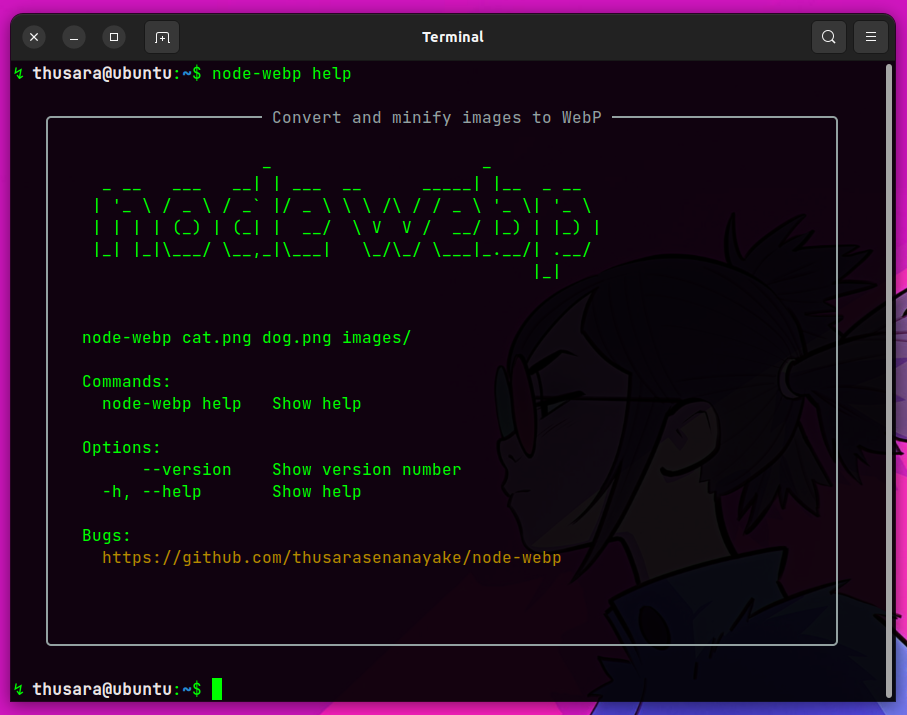
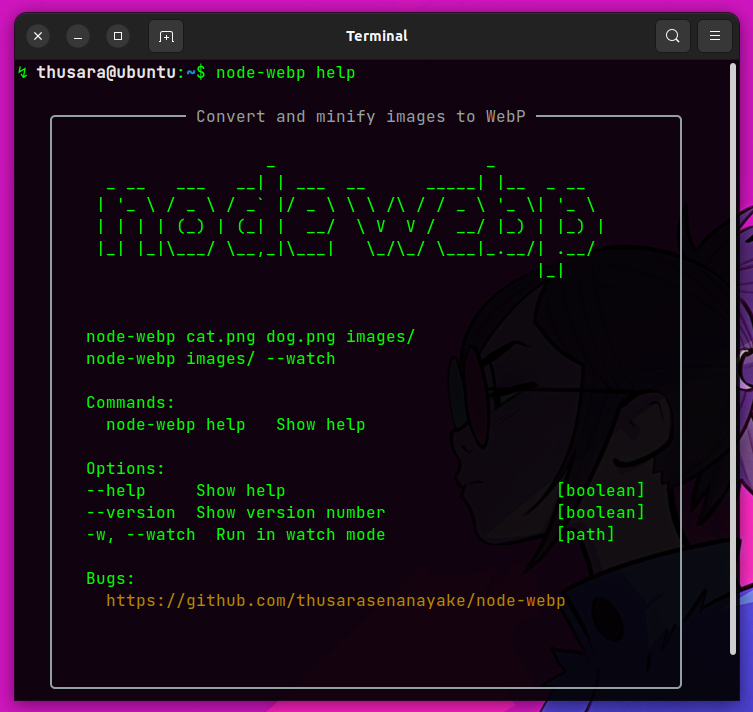
fix: modify README.md
fix: modify readme

fix: modify readme

diff --git a/bin/helpers/arts.js b/bin/helpers/arts.js
@@ -53,9 +53,9 @@ Commands:
   node-webp help   Show help
 
 Options:
---help     Show help                     [boolean]
---version  Show version number           [boolean]
--w, --watch  Run in watch mode           [path]
+--help     Show help                           [boolean]
+--version  Show version number                 [boolean]
+-w, --watch  Run in watch mode                 [path]
 
 Bugs:
   ${chalk.yellow("https://github.com/thusarasenanayake/node-webp")}

diff --git a/README.md b/README.md
@@ -1,3 +1,11 @@
+### ABOUT
+
+node-webp is a command-line utility that allows you to convert and minimize images into the WebP format.
+
+### SCREENSHOTS
+
+![Screenshot](./assets/Screenshot.png)
+
 ### INSTALLATION
 
 ```sh
@@ -7,5 +15,24 @@ npm install -g .
 # to create a symlink in the global package folder
 npm link
 
-
 ```
+
+### CONTRIBUTING
+
+Contributions to **node-webp** are welcome! If you encounter any issues, have suggestions, or want to contribute code improvements, please visit the [GitHub repository](https://github.com/thusarasenanayake/node-wepp) and create a new issue or pull request.
+
+### LICENSE
+
+This project is licensed under the MIT License. See the [LICENSE](LICENSE) file for details.
+
+### ACKNOWLEDGMENTS
+
+**node-webp** uses the following open-source dependencies:
+
+- [boxen](https://www.npmjs.com/package/boxen) (version 5.1.2)
+- [chalk](https://www.npmjs.com/package/chalk) (version 4.1.2)
+- [figlet](https://www.npmjs.com/package/figlet) (version 1.6.0)
+- [gulp](https://www.npmjs.com/package/gulp) (version 4.0.2)
+- [gulp-imagemin](https://www.npmjs.com/package/gulp-imagemin) (version 7.1.0)
+- [gulp-webp](https://www.npmjs.com/package/gulp-webp) (version 4.0.1)
+- [yargs](https://www.npmjs.com/package/yargs) (version 17.7.2)
